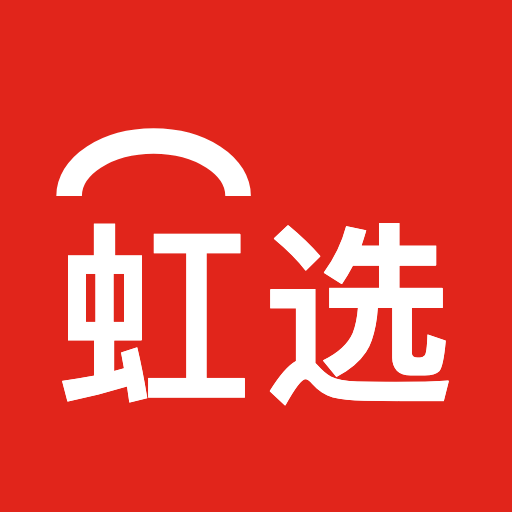
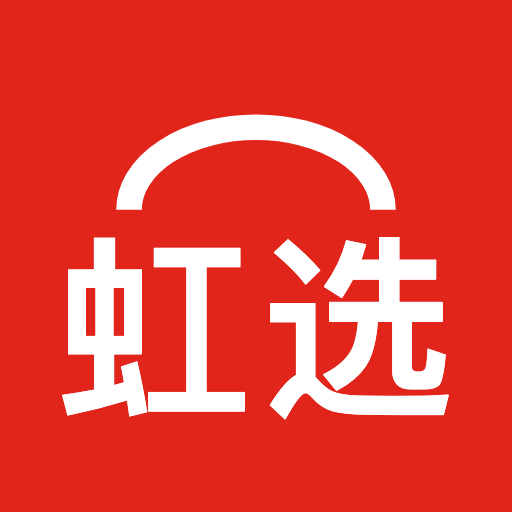
feat(brand): B 端图标定案为「弧横跨虹选两字」—— 顺带补上自适应前景漏掉的中文字标
## 定案

build.py 里那两版并存的注释写着「甲 = 弧只压『虹』；乙 = 弧横跨两字。
**两版并存到定案为止 —— 定了就删掉没选的那个**」。2026-09-11 定案：**乙**。

线上 APK（0.4.46/173）用的是甲 —— aapt2 badging 查到启动图标是 res/9T.png，
取出来看就是弧只压左边那个字的版本。48dp 下那道弧只占左半边，重心偏左；
乙压住整个字组，缩到桌面尺寸仍是一个完整的方块，也与 HX 方章同构
（那道弧在 HX 上本来就横跨 h 与 x）。

**span 改成从 APPS 取，不再写死在 app_icon_svg 里。** 写死的话，改弧跨度要翻到
那个函数里去，而看的人以为改 APPS 就够了 —— 找它的时候正是这么绕了一圈。

## 顺带修的：自适应前景两端字节完全相同

app_adaptive_fg_svg 此前一律走 glyph_body，**对 cn 一无所知** ——
于是 adaptive-fg-b.svg 与 adaptive-fg-c.svg 的 md5 一模一样。

那正是 APPS["b"] 注释里记着「走过并否掉」的第①版：两端图标完全相同，
桌面上只能靠名字分，而桌面名在文件夹里、搜索结果里都会被截断。
方章那一侧早就分开了（app_icon_svg 认 cn），**自适应这一侧没跟上** ——
两条产物链做同一件事而只改了一条。

当前 APK 用的是老式方形 PNG（badging 各密度都指向同一个 png），
所以这个洞还没在真机上露出来。但哪天离线工程接上自适应图标，
商家端会静默变回 HX，且不报任何错。

## 连带产物

ops-web 的 7 个图标跟着变了 —— 这是对的，不是误伤：
build.py 里 `"ops-web/public": "b"`，运营端刻意复用 B 端那副脸。
**C 端一个文件都没动**（逐个核过）。

## 补一笔昨天的欠账

check-generated-docs 报 openapi-b 生成不出来：mRecognizeQualification 没登记
RESPONSE_TYPES —— 昨天接证照识别时漏的，漏一条整份 spec 就硬失败。
补上之后级联到 API清单 / API详情-B端 / 词条表，一并重新生成。

剩下三个陈旧产物（openapi.yaml、openapi-ops.yaml、规范-运营端.md）是
C 端与运营端的，不是我碰的输入，没跑它们的生成器 —— 共享目录里替别人重新生成
会把别人在建的改动一起带进提交。

diff --git a/brand/build.py b/brand/build.py
@@ -279,8 +279,12 @@ APPS = {
     # 为什么是「虹选」两字而不是「虹选商家」四字：图标在桌面上是 48dp，
     # 四个汉字每个不到 10dp，笔画糊成一团 —— 而「商家」这层信息桌面名里已经有了
     # （app_name = 虹选商家）。方章走 spec §02 已有的 CN2 档，不新造几何。
+    # `cn_span` = 那道弧压住几个字。**2026-09-11 定案：乙（横跨「虹选」两字）。**
+    # 甲（弧只压「虹」）是 spec §04 的字面读法，乙与 HX 方章同构 —— 那道弧在 HX 上
+    # 本来就横跨 h 与 x。48dp 下甲的弧只占左半边，重心明显偏左；乙压住整个字组，
+    # 缩到桌面尺寸仍然是一个完整的方块。
     "b": dict(name="虹选商家", label="虹选 · 商家", plate=RED, glyph=PAPER, arc=PAPER,
-              cn="虹选", flavor="merchant", pkg="ai.neargo.shop.b"),
+              cn="虹选", cn_span="虹选", flavor="merchant", pkg="ai.neargo.shop.b"),
 }
 
 # ─────────────────────────────────────────── PNG 渲染（headless Chrome）
@@ -336,11 +340,38 @@ def write(p: pathlib.Path, text):
 def app_icon_svg(a):
     # 带 `cn` 的走中文方章（B 端「虹选」），否则走 HX 方章（C 端）
     if a.get("cn"):
-        return cn_icon_svg(a["plate"], a["glyph"], a["arc"], text=a["cn"], span="虹")
+        # span 从 APPS 取：写死在这里的话，改弧跨度要翻到这个函数里来，
+        # 而看的人以为改 APPS 就够了 —— 定案那天正是这么找了一圈
+        return cn_icon_svg(a["plate"], a["glyph"], a["arc"],
+                           text=a["cn"], span=a.get("cn_span", a["cn"][:1]))
     return icon_svg(a["plate"], a["glyph"], a["arc"])
 
 
+def adaptive_fg_cn_svg(glyph, arc, text, span):
+    """中文字标的 Android 自适应前景。与 {@link adaptive_fg_svg} 同一套安全圆排版。"""
+    inner = 72
+    off = (108 - inner) / 2
+    return svg("0 0 108 108",
+               f'<g transform="translate({f(off)} {f(off)})">'
+               + cn_body(inner, glyph, arc, text, span) + '</g>')
+
+
 def app_adaptive_fg_svg(a):
+    """
+    带 `cn` 的要走中文字标 —— **此前一律走 glyph_body，于是 b 与 c 的自适应前景
+    字节完全相同**（实测 md5 一致）。那正是 APPS["b"] 注释里记着「走过并否掉」的
+    第①版：两端图标一模一样，桌面上只能靠名字分，而桌面名会被截断。
+
+    方章那一侧早就分开了（app_icon_svg 认 cn），自适应这一侧没跟上 ——
+    两条产物链做同一件事而只改了一条，是这类缺陷的常见形状。
+
+    当前 APK 用的是老式方形 PNG（aapt2 badging 各密度都指向同一个 png），
+    所以这个洞还没在真机上露出来 —— 但哪天离线工程接上自适应图标，
+    商家端的图标会静默变回 HX，且不报任何错。
+    """
+    if a.get("cn"):
+        return adaptive_fg_cn_svg(a["glyph"], a["arc"],
+                                  a["cn"], a.get("cn_span", a["cn"][:1]))
     return adaptive_fg_svg(a["glyph"], a["arc"])
 
 

diff --git a/docs/api/API详情-B端.md b/docs/api/API详情-B端.md
@@ -3998,6 +3998,31 @@ _无字段_
 | `catalog` | [`AuthCodeInfo`](#authcodeinfo)\[\] | 是 | 平台的门槛码字典：哪些码要哪一类证 |
 
 
+#### POST `/biz/qualifications/recognize`
+
+识别证照（预填编号与有效期，认不出就让他手填）　🔒
+
+**入参**：无
+
+**出参**（`data`）
+
+类型：[`CertRecognition`](#certrecognition)
+
+| 字段 | 类型 | 必填 | 说明 |
+|---|---|:---:|---|
+| `recognized` | `boolean` | 是 | false = 模型没开或没认出来。**端上据此让他手填，不要弹错误** —— 识别是锦上添花，没识别出来只是少省一次手打。 少了这一位、只看字段是不是 null 的话，端上分不清 「模型说这张证上没有」与「压根没认」。 |
+| `docType` | `string,null` | 是 | `BUSINESS_LICENSE` 营业执照 / `ID_CARD` 身份证 / `UNKNOWN` 认不出是什么证 |
+| `side` | `string,null` | 是 | 身份证专用：`FRONT` 人像面 / `BACK` 国徽面。其余证件为 null |
+| `name` | `string,null` | 是 | 执照上的名称，或身份证上的姓名。**不是「证件名称」那一栏** |
+| `code` | `string,null` | 是 | 统一社会信用代码（执照）或身份证号。 **回给上传者本人是必要的**（他正要核对这一栏）， 但不要写进日志、不要转给第三方。 |
+| `legalForm` | `string,null` | 是 | 执照类型：个体工商户 / 有限责任公司 …… |
+| `person` | `string,null` | 是 | 法定代表人 / 经营者 |
+| `address` | `string,null` | 是 | 住所、经营场所或住址 |
+| `issuedAt` | `string,null` | 是 | 成立日期。`YYYY-MM-DD` |
+| `validTo` | `string,null` | 是 | 有效期止。`YYYY-MM-DD`，或字面量 `长期` |
+| `confidence` | `number` | 是 | 模型自评 0–1。**只用来决定「预填还是仅提示」**，不作为放行依据 |
+
+
 #### POST `/biz/qualifications/save`
 
 传一张资质证件　🔒
@@ -5602,6 +5627,24 @@ _无字段_
 - `SERVICE`
 - `VIRTUAL`
 - `CARD`
+
+### CertRecognition
+
+证照识别结果，用来**预填**表单。与后端 `BizCertController.CertVO` 同形。 ⚠ **认不出的字段一律 null，不猜。** 猜出来的值会被商家当成「系统读到的」 直接提交，比空着危险得多 —— 后端 `CertVisionPort.Cert` 的注释写的就是这条。
+
+| 字段 | 类型 | 必填 | 说明 |
+|---|---|:---:|---|
+| `recognized` | `boolean` | 是 | false = 模型没开或没认出来。**端上据此让他手填，不要弹错误** —— 识别是锦上添花，没识别出来只是少省一次手打。 少了这一位、只看字段是不是 null 的话，端上分不清 「模型说这张证上没有」与「压根没认」。 |
+| `docType` | `string,null` | 是 | `BUSINESS_LICENSE` 营业执照 / `ID_CARD` 身份证 / `UNKNOWN` 认不出是什么证 |
+| `side` | `string,null` | 是 | 身份证专用：`FRONT` 人像面 / `BACK` 国徽面。其余证件为 null |
+| `name` | `string,null` | 是 | 执照上的名称，或身份证上的姓名。**不是「证件名称」那一栏** |
+| `code` | `string,null` | 是 | 统一社会信用代码（执照）或身份证号。 **回给上传者本人是必要的**（他正要核对这一栏）， 但不要写进日志、不要转给第三方。 |
+| `legalForm` | `string,null` | 是 | 执照类型：个体工商户 / 有限责任公司 …… |
+| `person` | `string,null` | 是 | 法定代表人 / 经营者 |
+| `address` | `string,null` | 是 | 住所、经营场所或住址 |
+| `issuedAt` | `string,null` | 是 | 成立日期。`YYYY-MM-DD` |
+| `validTo` | `string,null` | 是 | 有效期止。`YYYY-MM-DD`，或字面量 `长期` |
+| `confidence` | `number` | 是 | 模型自评 0–1。**只用来决定「预填还是仅提示」**，不作为放行依据 |
 
 ### Community
 
@@ -8083,7 +8126,7 @@ SKU 草稿。`optionValues` 的顺序与 `specGroups` 一一对应 —— 这是
 
 ### TrafficSource
 
-流量来源。**与 ops-web 的 `TrafficSource` 同名** —— 那边多 INVITE/CHANNEL 两个值（已标 MERGE）
+流量来源。与 `ord_sub_order.traffic_source` 的库列注释逐字一致（下单时固化）。 ops-web 的同名类型 2026-09-10 起也是这两个值 —— 它此前多的 INVITE/CHANNEL 后端从不下发，已删（见 ops-web/lib/types/order.ts 的注释）。
 
 枚举取值：
 

diff --git a/docs/technical/reference/中英文对照-词条.md b/docs/technical/reference/中英文对照-词条.md
@@ -14,8 +14,8 @@
 | 面 | 说明 | 键数 | 中文 | English | العربية |
 |---|---|---|---|---|---|
 | C 端 · c-app | uni-app，消费者端 | 711 | 711 | 711 | 711 |
-| B 端 · b-app | uni-app，商家端 | 2090 | 2090 | 2090 | 2090 |
-| 运营端 · ops-web | Next.js，只有中英两语 | 289 | 289 | 289 | — |
+| B 端 · b-app | uni-app，商家端 | 2092 | 2092 | 2092 | 2092 |
+| 运营端 · ops-web | Next.js，只有中英两语 | 285 | 285 | 285 | — |
 | 后端 · shop-app | 服务端下发的提示语与错误文案 | 184 | 184 | 184 | 184 |
 
 「缺」= 中文有这条、该语言没有。**缺一条的后果是那种语言的用户看到裸 key**
@@ -2378,7 +2378,7 @@
 | `purchase.title` | 进货 | Record a purchase | تسجيل شراء |
 | `purchase.total` | 合计 | Total | الإجمالي |
 
-### `qual`（27）
+### `qual`（29）
 
 | 键 | 中文 | English | العربية |
 |---|---|---|---|
@@ -2399,12 +2399,14 @@
 | `qual.mine` | 已传的证 | Uploaded | المرفوعة |
 | `qual.notGranted` | 还没授权的类目 | Not yet approved | لم تُعتمد بعد |
 | `qual.notGrantedHint` | 这几类现在也能上架，传证只是为了把资质补齐；平台核过之后这一栏会变成「已经能卖的类目」。 | These categories can already be listed; uploading only completes your paperwork. After review they move to “Categories you can sell”. | هذه الفئات قابلة للعرض الآن، والرفع لاستكمال الأوراق فقط؛ بعد المراجعة تنتقل إلى «فئات يمكنك بيعها». |
+| `qual.prefilled` | 已按证照填好{f}，请核对 | Filled {f} from the document — please check | تمت تعبئة {f} من الوثيقة — يرجى التحقق |
 | `qual.submit` | 提交 | Submit | إرسال |
 | `qual.submitHint` | 提交后由平台核验，通常 1 个工作日内完成。 | Reviewed by the platform, normally within one business day. | تراجعه المنصة، عادة خلال يوم عمل. |
 | `qual.submitted` | 已提交，等平台核验 | Submitted — awaiting review | تم الإرسال؛ بانتظار المراجعة |
 | `qual.title` | 资质证照 | My licences | تراخيصي |
 | `qual.typeFoodPermit` | 食品经营许可证 | Food business permit | تصريح أغذية |
 | `qual.typeLicense` | 营业执照 | Business licence | رخصة تجارية |
+| `qual.typeMismatch` | 这张证看着不是你选的类型，确认一下 | This looks like a different document type — please check | يبدو أن هذه وثيقة من نوع آخر — يرجى التحقق |
 | `qual.typeOther` | 其他证件 | Other | أخرى |
 | `qual.typeWorkshop` | 小作坊登记证 | Small workshop registration | تسجيل ورشة صغيرة |
 | `qual.unlocked` | 已经能卖的类目 | Categories you can sell | فئات يمكنك بيعها |
@@ -3601,14 +3603,12 @@
 | `couponStatus.ENDED` | 已结束 | Ended |
 | `couponStatus.PAUSED` | 已暂停 | Paused |
 
-### `couponType`（4）
+### `couponType`（2）
 
 | 键 | 中文 | English |
 |---|---|---|
 | `couponType.DISCOUNT` | 折扣 | Percent off |
 | `couponType.FULL_CUT` | 满减 | Spend & save |
-| `couponType.NEWCOMER` | 新人 | New customer |
-| `couponType.TARGETED` | 定向 | Targeted |
 
 ### `demandStatus`（4）
 
@@ -3984,12 +3984,10 @@
 | `ticketStatus.PENDING` | 待分派 | Unassigned |
 | `ticketStatus.RESOLVED` | 已解决 | Resolved |
 
-### `trafficSource`（4）
+### `trafficSource`（2）
 
 | 键 | 中文 | English |
 |---|---|---|
-| `trafficSource.CHANNEL` | 渠道 | Channel |
-| `trafficSource.INVITE` | 邀请 | Referral |
 | `trafficSource.MERCHANT_OWNED` | 商家自带 | Merchant-owned |
 | `trafficSource.PLATFORM` | 平台流量 | Platform traffic |
 

diff --git a/docs/technical/reference/中英文对照-实体与字典.md b/docs/technical/reference/中英文对照-实体与字典.md
@@ -1973,7 +1973,7 @@
 | `CouponFunder` | shared | `PLATFORM` · `MERCHANT` | marketing | OK | 券的出资方。 |
 | `CouponStatus` | ops-web | `DRAFT` · `ACTIVE` · `PAUSED` · `ENDED` | marketing | OK | DRAFT 可改可删。 |
 | `CouponStatus` | shared | `ACTIVE` · `PAUSED` · `ENDED` | marketing | OK | 券状态。 |
-| `CouponType` | ops-web | `FULL_CUT` · `DISCOUNT` · `NEWCOMER` · `TARGETED` | marketing | PLANNED | — |
+| `CouponType` | ops-web | `FULL_CUT` · `DISCOUNT` | marketing | PLANNED | 券类型。 |
 | `DELIVERY_SHAPE` | shared | `SELF_PICKUP` · `SHIP_TO_BUYER` · `SELF_SERVE` · `SERVE_TO_BUYER` · `IMMEDIATE` | trade | OK | 履约方式的**交付形态**。 |
 | `DebtTxnType` | ops-web | `INCUR` · `OFFSET` · `DEPOSIT` · `WRITE_OFF` | settle | MERGE | 欠款流水类型。 |
 | `DebtTxnType` | shared | `INCUR` · `OFFSET` · `DEPOSIT` · `WRITE_OFF` | settle | MERGE | 欠款流水类型。 |
@@ -2105,7 +2105,7 @@
 | `TRADE_RULES` | shared | `21:00` | — | 不适用 | — |
 | `TicketStatus` | ops-web | `PENDING` · `ASSIGNED` · `RESOLVED` · `CLOSED` | message | OK | — |
 | `ToastType` | ops-web | `success` · `error` · `info` | ui | OK | — |
-| `TrafficSource` | ops-web | `MERCHANT_OWNED` · `PLATFORM` · `INVITE` · `CHANNEL` | order | MERGE | 流量来源（矩阵 P-12.1.7 按 trafficSource 分档计费）。 |
+| `TrafficSource` | ops-web | `MERCHANT_OWNED` · `PLATFORM` | order | MERGE | 客流来源（矩阵 P-12.1.7 按 trafficSource 分档计费）。 |
 | `TrafficSource` | shared | `MERCHANT_OWNED` · `PLATFORM` | growth | MERGE | 流量来源。 |
 | `TransferStatus` | shared | `DRAFT` · `SHIPPED` · `RECEIVED` · `VOIDED` | inventory | OK | 调拨单状态。 |
 | `ViolationAction` | ops-web | `WARN` · `LIMIT` · `SUSPEND` · `STORE_OFFLINE` | merchant | PLANNED | 处置动作。 |

diff --git a/docs/technical/reference/B端功能点-权限码-页面.md b/docs/technical/reference/B端功能点-权限码-页面.md
@@ -137,6 +137,7 @@
 | 自建自提点（待运营核实） | POST | `/biz/pickup-points` | `mSelfBuildPickup` | — |
 | 门店可引用的取货点候选 | GET | `/biz/pickup-points/candidates` | `mPickupCandidates` | — |
 | 我的资质与已获授权的类目 | GET | `/biz/qualifications` | `mQualifications` | entity-detail、qualifications |
+| 识别证照（预填编号与有效期，认不出就让他手填） | POST | `/biz/qualifications/recognize` | `mRecognizeQualification` | qualifications |
 | 传一张资质证件 | POST | `/biz/qualifications/save` | `mSaveQualification` | qualifications |
 | 店铺门面 | GET | `/biz/store` | `mStore` | home、store、store-notice、store-scope |
 | 保存店铺门面 | POST | `/biz/store` | `mSaveStore` | store、store-scope |
@@ -152,7 +153,6 @@
 | 开预约时段 | POST | `/biz/stores/:storeNo/appointment-slots` | `mOpenAppointmentSlot` | schedule |
 | 门店送货方式 | GET | `/biz/stores/:storeNo/fulfillment` | `mStoreFulfillment` | goods-edit、store-scope |
 | 保存门店送货方式 | PUT | `/biz/stores/:storeNo/fulfillment` | `mSaveStoreFulfillment` | store-scope |
-| —（b-app 未接） | — | `/biz/qualifications/recognize` | — | — |
 
 ### `biz:finance`　结算账单、费率卡、收款进件、积分开关
 
@@ -417,7 +417,6 @@
 | 端点 | 权限码 | 可用角色 |
 |---|---|---|
 | `/biz/inventory/export` | `biz:customer` | 老板、店长 |
-| `/biz/qualifications/recognize` | `biz:store` | 老板、店长 |
 | `/biz/quote/{}/revise` | `biz:campaign` | 老板、店长 |
 | `/biz/settle/bills/{}` | `biz:finance` | 老板 |
 

diff --git a/docs/api/API清单.md b/docs/api/API清单.md
@@ -8,7 +8,7 @@
 
 对照：[响应格式规范](响应格式规范.md) ｜ [三端与后端对照](三端与后端对照.md) ｜ [后端验收清单](后端验收清单.md) ｜ [项目词典](../requirements/项目词典.md)
 
-**合计 706 个接口**：后端已实现 634（90%）· 前端在调 635
+**合计 707 个接口**：后端已实现 635（90%）· 前端在调 636
 
 ---
 
@@ -211,7 +211,7 @@
 
 ## B 端 `/biz/**` · b-app（商家）
 
-共 **228** 个接口 ｜ 后端已实现 **223**（98%）｜ 前端在调 **228**
+共 **229** 个接口 ｜ 后端已实现 **224**（98%）｜ 前端在调 **229**
 
 ### activities（4）
 
@@ -574,11 +574,12 @@
 | POST | `/biz/push-token` | 绑定 App 推送设备（登录后） | — | — | 🔒 | ✅ | ✅ |
 | POST | `/biz/push-token/unregister` | 解绑推送设备（登出前，共用设备换班必须解） | — | — | 🔒 | ✅ | ✅ |
 
-### qualifications（2）
+### qualifications（3）
 
 | 方法 | 路径 | 说明 | 入参 | 出参 | 鉴权 | 后端 | 前端 |
 |---|---|---|---|---|:---:|:---:|:---:|
 | GET | `/biz/qualifications` | 我的资质与已获授权的类目 | — | `MyQualifications` | 🔒 | ✅ | ✅ |
+| POST | `/biz/qualifications/recognize` | 识别证照（预填编号与有效期，认不出就让他手填） | — | `CertRecognition` | 🔒 | ✅ | ✅ |
 | POST | `/biz/qualifications/save` | 传一张资质证件 | — | `Qualification` | 🔒 | ✅ | ✅ |
 
 ### regions（4）
